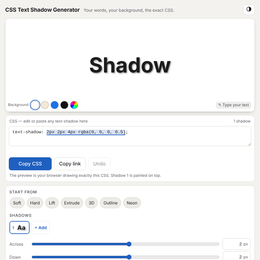
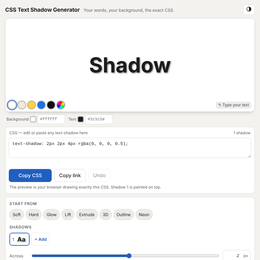
CSS Text Shadow Generator: remade around one box that is both the result and the input
What it does: you design a text-shadow on your own words, on your own background and text colour,
one layer at a time, and copy the exact line. Paste any text-shadow - a whole rule, comments,
!important, hex with alpha, hsl(), em - and it opens as editable layers; anything unreadable is
named by shadow number with what would work instead.

What changed for the person: the preview is drawn by the browser from the very string that is
copied, so they cannot disagree. Layers are edited in place instead of the old add-then-reset
queue that hid the shadow being built from the copied CSS. Background and text colour take hex.
em and rem stay em and rem. Undo covers every change. A link carries the shadow and colours, never
the text. The old page's saved shadows, text and theme load as they were.

Why it looks this way: the preview is the largest thing and sticks to the top of a phone while the
sliders are used; the CSS sits right under it in a real monospace, one shadow per line so no rgba()
breaks; numbers are tabular and right-aligned; the only motion is a brief tint on the part of the
CSS that just changed.

Claude-Session: https://claude.ai/code/session_01VEDvgWUk9zDJHQB5huZWQs

Changed region(s): [[0.0308, 0.3692, 0.8308, 1.0], [0.8923, 0.9231, 0.9538, 1.0], [0.8923, 0.4615, 0.9538, 0.5231]]

diff --git a/tools/text_shadow_generator.html b/tools/text_shadow_generator.html
@@ -16,13 +16,13 @@
 }
 :root[data-theme="dark"]{
   --bg:#141416; --panel:#1d1d20; --ink:#ececee; --muted:#a3a3ab; --line:#34343a; --soft:#26262a;
-  --accent:#7aa7f0; --accent-ink:#0d1726; --bad:#ff8a80; --bad-soft:#3a1f1d; --flash:rgba(122,167,240,.22);
+  --accent:#4d8ef0; --accent-ink:#ffffff; --bad:#ff8a80; --bad-soft:#3a1f1d; --flash:rgba(122,167,240,.22);
   color-scheme:dark;
 }
 @media (prefers-color-scheme:dark){
   :root:not([data-theme="light"]){
     --bg:#141416; --panel:#1d1d20; --ink:#ececee; --muted:#a3a3ab; --line:#34343a; --soft:#26262a;
-    --accent:#7aa7f0; --accent-ink:#0d1726; --bad:#ff8a80; --bad-soft:#3a1f1d; --flash:rgba(122,167,240,.22);
+    --accent:#4d8ef0; --accent-ink:#ffffff; --bad:#ff8a80; --bad-soft:#3a1f1d; --flash:rgba(122,167,240,.22);
     color-scheme:dark;
   }
 }
@@ -36,9 +36,10 @@ h1{font-size:17px;font-weight:650;margin:0;letter-spacing:-.01em}
 header .sub{color:var(--muted);font-size:13px;flex:1;min-width:0;white-space:nowrap;overflow:hidden;text-overflow:ellipsis}
 .iconbtn{border:1px solid var(--line);background:var(--panel);border-radius:8px;height:32px;min-width:32px;padding:0 9px;cursor:pointer;font-size:13px}
 .grid{display:grid;grid-template-columns:minmax(0,1.25fr) minmax(0,1fr);gap:14px;align-items:start}
-@media (max-width:820px){.grid{grid-template-columns:1fr;gap:10px}
+.grid>section{min-width:0}
+@media (max-width:820px){.grid{grid-template-columns:minmax(0,1fr);gap:10px}
   .stage{position:sticky;top:0;z-index:3;height:min(210px,27vh);box-shadow:0 6px 14px -8px rgba(0,0,0,.35)}}
-@media (max-width:600px){.bglbl{display:none}.layerops .lo{display:none}header .sub{display:none}header h1{flex:1}}
+@media (max-width:600px){.code{font-size:12px}.bglbl{display:none}.layerops .lo{display:none}header .sub{display:none}header h1{flex:1}}
 
 /* the stage: the person's own words, drawn by the browser from exactly the CSS below */
 .stage{position:relative;border-radius:12px;border:1px solid var(--line);overflow:hidden;height:min(300px,36vh);min-height:170px;display:flex}
@@ -47,19 +48,28 @@ header .sub{color:var(--muted);font-size:13px;flex:1;min-width:0;white-space:now
 .stage textarea:focus-visible{box-shadow:inset 0 0 0 2px var(--accent)}
 .stage .bgs{position:absolute;left:8px;bottom:8px;display:flex;gap:6px;align-items:center}
 .bglbl{font-size:11px;opacity:.75;margin-right:2px}
-.sw{width:24px;height:24px;border-radius:50%;border:1px solid rgba(127,127,127,.55);cursor:pointer;padding:0;position:relative}
+.sw{box-shadow:0 0 0 1px rgba(255,255,255,.35),0 0 0 2px rgba(0,0,0,.25);width:24px;height:24px;border-radius:50%;border:1px solid rgba(127,127,127,.55);cursor:pointer;padding:0;position:relative}
 .sw[aria-pressed="true"]{outline:2px solid var(--accent);outline-offset:2px}
 .sw input{position:absolute;inset:0;opacity:0;cursor:pointer;width:100%;height:100%}
 .sw.custom{background:conic-gradient(red,yellow,lime,cyan,blue,magenta,red)}
+.stage .stalenote{position:absolute;top:8px;left:50%;transform:translateX(-50%);font-size:12px;padding:2px 8px;border-radius:6px;background:rgba(127,127,127,.25)}
+.stage:not(.stale) .stalenote{display:none}
 .stage .hint{position:absolute;right:10px;bottom:9px;font-size:12px;padding:2px 7px;border-radius:6px;background:rgba(127,127,127,.18);color:inherit;opacity:.85;border:0;cursor:text;font-family:inherit}
 
-.out{margin-top:10px;background:var(--panel);border:1px solid var(--line);border-radius:12px;padding:10px}
+.stagebar{display:flex;align-items:center;gap:6px;margin-top:8px;font-size:12px;color:var(--muted);flex-wrap:wrap}
+.stagebar label{margin-left:4px}
+.sw.mini{width:16px;height:16px;border-radius:4px;cursor:default}
+.hex{width:84px;height:30px;border:1px solid var(--line);border-radius:6px;background:var(--panel);padding:0 6px;font:12.5px var(--mono)}
+.hex[aria-invalid="true"]{border-color:var(--bad);background:var(--bad-soft)}
+.stageerr{color:var(--bad);flex-basis:100%;min-height:0}
+.stageerr:empty{display:none}
+.out{margin-top:8px;background:var(--panel);border:1px solid var(--line);border-radius:12px;padding:10px}
 .out label.cap{display:flex;justify-content:space-between;font-size:12px;color:var(--muted);margin:0 2px 6px}
 .code{position:relative;font:13.5px/1.5 var(--mono)}
 .code pre,.code textarea{margin:0;padding:8px 10px;white-space:pre-wrap;overflow-wrap:anywhere;font:inherit;border-radius:8px;letter-spacing:0}
 .code pre{position:absolute;inset:0;color:transparent;pointer-events:none;border:1px solid transparent;overflow:hidden}
 .code pre mark{background:transparent;color:transparent;border-radius:3px;transition:background-color .7s ease-out}
-.code pre mark.sel{background:var(--flash);box-shadow:0 2px 0 0 var(--accent)}
+.code pre mark.sel{background:var(--flash)}
 .code pre mark.on{background:var(--flash);transition:none}
 .code textarea{display:block;width:100%;min-height:62px;max-height:40vh;resize:vertical;background:transparent;border:1px solid var(--line);position:relative;outline:none;overflow:auto}
 .code textarea:focus{border-color:var(--accent)}
@@ -91,7 +101,7 @@ header .sub{color:var(--muted);font-size:13px;flex:1;min-width:0;white-space:now
 .row label{font-size:13px;color:var(--muted)}
 .row input[type=range]{width:100%;accent-color:var(--accent);height:28px;margin:0}
 .num{position:relative}
-.num input{width:100%;height:36px;border:1px solid var(--line);border-radius:8px;background:var(--panel);padding:0 26px 0 8px;font:13.5px var(--mono);text-align:right;font-variant-numeric:tabular-nums}
+.num input{width:100%;height:36px;border:1px solid var(--line);border-radius:8px;background:var(--panel);padding:0 34px 0 8px;font:13.5px var(--mono);text-align:right;font-variant-numeric:tabular-nums}
 .num input:focus{outline:2px solid var(--accent);outline-offset:-1px;border-color:transparent}
 .num input[aria-invalid="true"]{border-color:var(--bad);background:var(--bad-soft)}
 .num span{position:absolute;right:8px;top:50%;transform:translateY(-50%);font-size:12px;color:var(--muted);pointer-events:none}
@@ -105,8 +115,8 @@ header .sub{color:var(--muted);font-size:13px;flex:1;min-width:0;white-space:now
 .layerops .btn:hover:not(:disabled){background:var(--soft)}
 .layerops .btn.danger{color:var(--bad)}
 h2{font-size:12px;font-weight:600;color:var(--muted);text-transform:uppercase;letter-spacing:.06em;margin:14px 0 8px}
-.chips{display:flex;gap:6px;flex-wrap:wrap}
-.chip{height:34px;padding:0 10px;border:1px solid var(--line);border-radius:17px;background:var(--soft);cursor:pointer;font-size:13px}
+.chips{display:flex;gap:5px;flex-wrap:wrap}
+.chip{height:34px;padding:0 9px;border:1px solid var(--line);border-radius:17px;background:var(--soft);cursor:pointer;font-size:13px}
 details{margin-top:14px;border-top:1px solid var(--line);padding-top:10px}
 summary{cursor:pointer;font-size:13px;color:var(--muted);padding:4px 0}
 .prow{display:grid;grid-template-columns:90px 1fr;gap:10px;align-items:center;margin-top:8px;font-size:13px}
@@ -134,7 +144,7 @@ footer a{color:inherit}
       <div class="stage" id="stage">
         <label class="sr" for="text">Preview text</label>
         <textarea id="text" spellcheck="false" maxlength="500" rows="1"></textarea>
-        <div class="bgs" role="group" aria-label="Preview background"><span class="bglbl" aria-hidden="true">Background</span>
+        <div class="bgs" role="group" aria-label="Preview background">
           <button class="sw" type="button" data-bg="#ffffff" style="background:#fff" aria-label="White background"></button>
           <button class="sw" type="button" data-bg="#f2e8d5" style="background:#f2e8d5" aria-label="Cream background"></button>
           <button class="sw" type="button" data-bg="#ffd23f" style="background:#ffd23f" aria-label="Yellow background"></button>
@@ -142,7 +152,13 @@ footer a{color:inherit}
           <button class="sw" type="button" data-bg="#111114" style="background:#111114" aria-label="Black background"></button>
           <span class="sw custom" id="bgCustomWrap"><input type="color" id="bgCustom" aria-label="Custom background color"></span>
         </div>
+        <span class="stalenote">Showing your last valid shadow</span>
         <button class="hint" id="hint" type="button" tabindex="-1" aria-hidden="true">✎ Type your text</button>
+      </div>
+      <div class="stagebar" role="group" aria-label="Preview colors">
+        <label for="bgHex">Background</label><span class="sw mini" id="bgSw"></span><input id="bgHex" class="hex" autocomplete="off" autocapitalize="off" spellcheck="false" aria-describedby="stageErr">
+        <label for="fgHex">Text</label><span class="sw mini" id="fgSw"></span><input id="fgHex" class="hex" autocomplete="off" autocapitalize="off" spellcheck="false" aria-describedby="stageErr">
+        <span class="stageerr" id="stageErr"></span>
       </div>
       <div class="out">
         <label class="cap" for="css"><span>CSS — edit or paste any text-shadow here</span><span id="count"></span></label>
@@ -343,14 +359,14 @@ var TS = (function () {
       var L = readLength(t[i]);
       if (L.error) return { error: L.error };
       if (!L.none) {
-        if (color && colorMid) return { error: 'the colour must come before or after all the lengths' };
+        if (color && colorMid) return { error: 'the color must come before or after all the lengths' };
         if (L.note) notes.push(L.note);
         lens.push(L.px); units.push(L.unit || 'px'); continue;
       }
       var c = parseColor(t[i]);
-      if (c) { if (color) return { error: 'two colours in one shadow; separate shadows with a comma' }; color = c; colorMid = lens.length > 0; continue; }
-      if (/^currentcolor$/i.test(t[i])) { if (color) return { error: 'two colours in one shadow' }; color = defaultColor || { r: 0, g: 0, b: 0, a: 1 }; continue; }
-      return { error: '"' + t[i] + '" is not a length or a colour' };
+      if (c) { if (color) return { error: 'two colors in one shadow; separate shadows with a comma' }; color = c; colorMid = lens.length > 0; continue; }
+      if (/^currentcolor$/i.test(t[i])) { if (color) return { error: 'two colors in one shadow' }; color = defaultColor || { r: 0, g: 0, b: 0, a: 1 }; continue; }
+      return { error: '"' + t[i] + '" is not a length or a color' };
     }
     if (lens.length < 2) return { error: 'a shadow needs at least two lengths: across and down, e.g. 2px 2px' };
     if (lens.length > 3) return { error: 'text-shadow takes at most three lengths (spread is only for box-shadow)' };
@@ -404,6 +420,7 @@ var TS = (function () {
   var PRESETS = [
     { id: 'soft', name: 'Soft', css: '2px 2px 4px rgba(0, 0, 0, 0.5)' },
     { id: 'simple', name: 'Hard', css: '2px 2px 0px rgba(0, 0, 0, 1)' },
+    { id: 'glow', name: 'Glow', css: '0px 0px 8px rgba(120, 190, 255, 0.9)' },
     { id: 'bottom', name: 'Lift', css: '0px 4px 8px rgba(0, 0, 0, 0.4)' },
     { id: 'layered', name: 'Extrude', css: '1px 1px 0px rgba(0, 0, 0, 0.8), 2px 2px 0px rgba(0, 0, 0, 0.6), 3px 3px 0px rgba(0, 0, 0, 0.4), 4px 4px 0px rgba(0, 0, 0, 0.2)' },
     { id: '3d', name: '3D', css: '-2px 2px 0px rgba(255, 0, 0, 1), 2px -2px 0px rgba(0, 0, 255, 1)' },
@@ -549,7 +566,10 @@ var TS = (function () {
     $('stage').style.color = lum === 'dark' ? '#222' : '#eee';
     document.querySelectorAll('.bgs .sw[data-bg]').forEach(function (b) { b.setAttribute('aria-pressed', String(b.dataset.bg === st.bg)); });
     $('bgCustomWrap').setAttribute('aria-pressed', String(!document.querySelector('.bgs .sw[data-bg="' + st.bg + '"]')));
-    $('bgCustom').value = st.bg; $('fg').value = st.fg; $('size').value = st.size; $('font').value = st.font;
+    $('bgCustom').value = st.bg; $('fg').value = st.fg;
+    $('bgSw').style.background = st.bg; $('fgSw').style.background = st.fg;
+    if (document.activeElement !== $('bgHex')) { $('bgHex').value = st.bg; $('bgHex').setAttribute('aria-invalid', 'false'); }
+    if (document.activeElement !== $('fgHex')) { $('fgHex').value = st.fg; $('fgHex').setAttribute('aria-invalid', 'false'); } $('size').value = st.size; $('font').value = st.font;
     var c = TS.contrast(TS.parseColor(st.fg), TS.parseColor(st.bg));
     $('contrast').textContent = 'Text against background: ' + c.toFixed(1) + ':1' + (c < 3 ? ' — low; a shadow alone will not make this readable.' : '');
     fitText();
@@ -576,12 +596,13 @@ var TS = (function () {
     if (!cssEditing) { $('css').value = cssText(); $('css').setAttribute('aria-invalid', 'false'); $('cssErr').textContent = ''; }
     renderMirror(); growCss();
     var bad = cssEditing && cssErrors.length;
-    var n = S.layers.length, total = n + cssErrors.filter(function (e) { return e.index >= 0; }).length;
-    $('count').textContent = bad ? (total - n) + ' of ' + total + ' shadows need fixing' : n === 1 ? '1 shadow' : n + ' shadows';
+    var nbad = cssErrors.filter(function (e) { return e.index >= 0; }).length, n = bad && lastParse ? lastParse.layers.length : S.layers.length, total = n + nbad;
+    $('count').textContent = bad && !n ? 'not readable' : bad ? (total - n) + ' of ' + total + ((total - n) === 1 ? ' shadows needs' : ' shadows need') + ' fixing' : n === 1 ? '1 shadow' : n + ' shadows';
     $('linkBtn').disabled = !!bad;
     $('copyBtn').disabled = !!bad;
     
-    $('trust').innerHTML = bad
+    $('stage').classList.toggle('stale', !!(bad && !n)); $('editor').classList.toggle('stale', !!(bad && !n));
+    $('trust').innerHTML = bad && !n ? 'Undo brings back the last valid shadow.' : bad
       ? 'The preview shows the ' + (S.layers.length === 1 ? 'one shadow' : S.layers.length + ' shadows') + ' that can be read. Fix the marked ' + (cssErrors.length === 1 ? 'one' : 'ones') + ' to copy.'
       : 'The preview is your browser drawing exactly this CSS. Shadow 1 is painted on top.';
     $('trust').classList.toggle('warn', !!bad);
@@ -593,7 +614,7 @@ var TS = (function () {
     if (v !== cssText()) { m.innerHTML = esc(v) + '\n'; return; }
     var parts = S.layers.map(TS.fmtLayer);
     if (!parts.length) { m.innerHTML = esc(v) + '\n'; return; }
-    var marks = parts.map(function (p, i) { return '<mark data-i="' + i + '"' + (i === S.sel ? ' class="sel"' : '') + '>' + esc(p) + '</mark>'; });
+    var marks = parts.map(function (p, i) { return '<mark data-i="' + i + '"' + (i === S.sel && parts.length > 1 ? ' class="sel"' : '') + '>' + esc(p) + '</mark>'; });
     m.innerHTML = (parts.length < 2 ? 'text-shadow: ' + marks[0] : 'text-shadow:\n  ' + marks.join(',\n  ')) + ';\n';
     if (flashIdx != null) {
       var mk = m.querySelector('mark[data-i="' + flashIdx + '"]');
@@ -650,6 +671,7 @@ var TS = (function () {
     $('colPick').value = hex; $('colSw').style.background = hex;
     if (document.activeElement !== $('col')) { $('col').value = hex; $('col').setAttribute('aria-invalid', 'false'); $('colErr').textContent = ''; }
     $('loLabel').textContent = 'Shadow ' + (S.sel + 1) + ' of ' + S.layers.length;
+    $('upBtn').hidden = $('downBtn').hidden = S.layers.length < 2;
     $('upBtn').disabled = S.sel === 0; $('downBtn').disabled = S.sel === S.layers.length - 1;
   }
   function render(o) {
@@ -807,7 +829,20 @@ var TS = (function () {
       render({ stage: true });
     });
   });
-  $('bgCustom').addEventListener('input', function () { S.stage.bg = this.value; render({ stage: true }); });
+  function autoFg() {
+    if (TS.contrast(TS.parseColor(S.stage.fg), TS.parseColor(S.stage.bg)) < 2.5) S.stage.fg = TS.contrast(TS.parseColor(S.stage.bg), { r: 0, g: 0, b: 0, a: 1 }) > 7 ? '#1c1c1e' : '#ffffff';
+  }
+  $('bgCustom').addEventListener('input', function () { S.stage.bg = this.value; autoFg(); render({ stage: true }); });
+  ['bg', 'fg'].forEach(function (k) {
+    $(k + 'Hex').addEventListener('input', function () {
+      var c = TS.parseColor(this.value);
+      this.setAttribute('aria-invalid', String(!c));
+      $('stageErr').textContent = c ? '' : 'Use a color like #0b1d3a, rgb(11 29 58) or navy.';
+      if (!c) return;
+      S.stage[k] = TS.colorHex(c); if (k === 'bg') autoFg(); render({ stage: true });
+    });
+    $(k + 'Hex').addEventListener('blur', function () { $('stageErr').textContent = ''; renderStage(); });
+  });
   $('fg').addEventListener('input', function () { S.stage.fg = this.value; render({ stage: true }); });
   $('size').addEventListener('input', function () { S.stage.size = +this.value; render({ stage: true }); });
   $('font').addEventListener('change', function () { S.stage.font = this.value; render({ stage: true }); });
